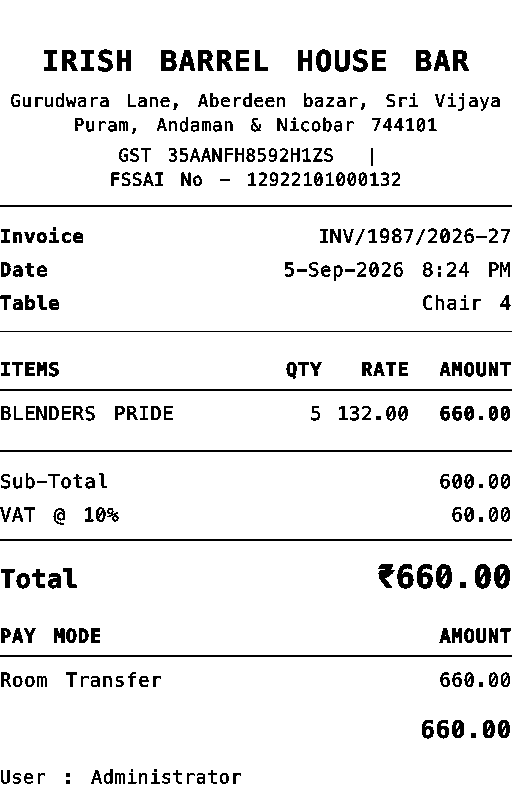
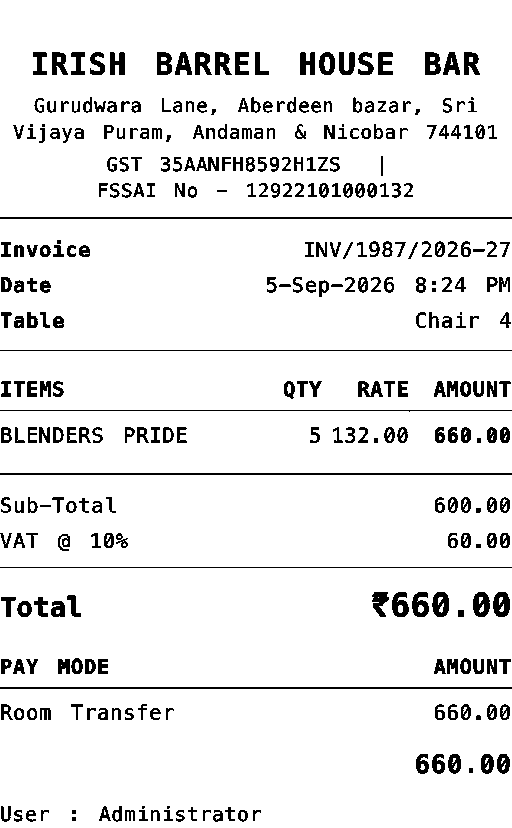
new

diff --git a/.cursor/debug-raster-sim/sim_current.html b/.cursor/debug-raster-sim/sim_current.html
@@ -311,20 +311,20 @@
       escapeHtml(orderNo) +
       '</title><style>' +
       'body{font-family:"Courier New",monospace;padding:16px;color:#111;width:340px;margin:0 auto}' +
-      'h1{font-size:16px;margin:0 0 4px;text-align:center;letter-spacing:.04em}' +
-      '.sub{font-size:11px;text-align:center;color:#555;margin-bottom:10px}' +
-      '.meta{font-size:12px;margin-bottom:10px;border-bottom:1px dashed #333;padding-bottom:8px}' +
+      'h1{font-size:17px;margin:0 0 4px;text-align:center;letter-spacing:.04em}' +
+      '.sub{font-size:12px;text-align:center;color:#555;margin-bottom:10px}' +
+      '.meta{font-size:13px;margin-bottom:10px;border-bottom:1px dashed #333;padding-bottom:8px}' +
       '.meta div{display:flex;justify-content:space-between;margin:2px 0;gap:8px}' +
-      'table.items{width:100%;border-collapse:collapse;font-size:12px}' +
-      'table.items th{text-align:left;font-size:11px;border-bottom:1px solid #333;padding:4px 0}' +
+      'table.items{width:100%;border-collapse:collapse;font-size:13px}' +
+      'table.items th{text-align:left;font-size:12px;border-bottom:1px solid #333;padding:4px 0}' +
       'table.items td{padding:4px 0;border-bottom:1px dashed #ddd;vertical-align:top}' +
       'table.items td.qty,table.items th.qty{width:30px;text-align:center}' +
       'table.items td.rate,table.items th.rate,table.items td.amt,table.items th.amt{width:64px;text-align:right}' +
-      '.variant{font-size:10px;color:#555}' +
-      '.totals{margin-top:10px;font-size:12px}' +
+      '.variant{font-size:11px;color:#555}' +
+      '.totals{margin-top:10px;font-size:13px}' +
       '.totals div{display:flex;justify-content:space-between;margin:2px 0}' +
-      '.totals .grand{font-size:15px;font-weight:700;border-top:1px solid #333;margin-top:6px;padding-top:6px}' +
-      '.foot{margin-top:14px;text-align:center;font-size:11px;color:#555}' +
+      '.totals .grand{font-size:16px;font-weight:700;border-top:1px solid #333;margin-top:6px;padding-top:6px}' +
+      '.foot{margin-top:14px;text-align:center;font-size:12px;color:#555}' +
       '@media print{body{width:auto;margin:0}}' +
       '</style></head><body>' +
       '<h1>Hotel Bell Elite</h1>' +
@@ -498,7 +498,7 @@
     var cancelledCss = isCancelled
       ? 'body.is-cancelled .bill-sheet{position:relative}' +
         '.cancelled-watermark{position:absolute;inset:0;display:flex;align-items:center;justify-content:center;pointer-events:none;z-index:20;overflow:hidden}' +
-        '.cancelled-watermark span{display:inline-block;font-family:"Noto Sans",sans-serif;font-size:46px;font-weight:800;letter-spacing:.14em;line-height:1;color:rgba(185,28,28,.34);border:3px solid rgba(185,28,28,.4);padding:8px 16px;transform:rotate(-34deg);text-transform:uppercase;white-space:nowrap}' +
+        '.cancelled-watermark span{display:inline-block;font-family:"Noto Sans",sans-serif;font-size:47px;font-weight:800;letter-spacing:.14em;line-height:1;color:rgba(185,28,28,.34);border:3px solid rgba(185,28,28,.4);padding:8px 16px;transform:rotate(-34deg);text-transform:uppercase;white-space:nowrap}' +
         '@media print{.cancelled-watermark span{color:rgba(185,28,28,.42);border-color:rgba(185,28,28,.48)}}'
       : '';
     var cancelledMark = isCancelled
@@ -529,38 +529,38 @@
       escapeHtml(orderNo) +
       '</title><style>' +
       receiptNotoSansFaceCss() +
-      'body{font-family:"Noto Sans",sans-serif;padding:14px 12px;color:#111;width:340px;margin:0 auto;font-size:12.5px;font-weight:400;line-height:1.45;-webkit-font-smoothing:antialiased}' +
+      'body{font-family:"Noto Sans",sans-serif;padding:14px 12px;color:#111;width:340px;margin:0 auto;font-size:13.5px;font-weight:400;line-height:1.45;-webkit-font-smoothing:antialiased}' +
       '.logo{display:block;margin:0 auto 10px;max-width:260px;height:auto}' +
-      '.brand{font-size:19px;font-weight:700;text-align:center;letter-spacing:0;margin:0 0 6px;line-height:1.25}' +
-      '.addr,.gst-no{font-size:11.5px;font-weight:400;text-align:center;margin:0 0 4px;line-height:1.4}' +
+      '.brand{font-size:20px;font-weight:700;text-align:center;letter-spacing:0;margin:0 0 6px;line-height:1.25}' +
+      '.addr,.gst-no{font-size:12.5px;font-weight:400;text-align:center;margin:0 0 4px;line-height:1.4}' +
       '.gst-no .fssai{white-space:nowrap}' +
       '.rule{border:0;border-top:1px solid #333;margin:10px 0}' +
-      '.meta{font-size:12.5px;margin:0 0 10px}' +
+      '.meta{font-size:13.5px;margin:0 0 10px}' +
       '.meta div{display:flex;justify-content:space-between;align-items:baseline;margin:4px 0;gap:10px}' +
       '.meta div>span:first-child{font-weight:600;flex:0 0 auto}' +
       '.meta div>span:last-child{font-weight:400;text-align:right}' +
-      'table.items{width:100%;border-collapse:collapse;font-size:12.5px;margin:0 0 10px}' +
-      'table.items th{text-align:left;font-size:12.5px;font-weight:700;padding:5px 0;border-bottom:1px solid #333;text-transform:uppercase;letter-spacing:.02em}' +
+      'table.items{width:100%;border-collapse:collapse;font-size:13.5px;margin:0 0 10px}' +
+      'table.items th{text-align:left;font-size:13.5px;font-weight:700;padding:5px 0;border-bottom:1px solid #333;text-transform:uppercase;letter-spacing:.02em}' +
       'table.items td{padding:5px 0;border-bottom:1px solid #e5e7eb;vertical-align:top;font-weight:500}' +
       'table.items td:first-child{font-weight:500;text-align:left}' +
       'table.items td.qty,table.items th.qty{width:36px;text-align:right}' +
       'table.items td.rate,table.items th.rate{width:58px;text-align:right}' +
       'table.items td.amt,table.items th.amt{width:68px;text-align:right}' +
       'table.items td.qty,table.items td.rate,table.items td.amt{font-weight:500}' +
-      '.variant{font-size:11px;font-weight:400;color:#555}' +
-      '.totals{font-size:12.5px;font-weight:400;margin:0 0 10px}' +
+      '.variant{font-size:12px;font-weight:400;color:#555}' +
+      '.totals{font-size:13.5px;font-weight:400;margin:0 0 10px}' +
       '.totals div{display:flex;justify-content:space-between;align-items:baseline;margin:4px 0;gap:10px}' +
       '.totals .grand{margin-top:8px;padding-top:8px;border-top:1px solid #333;align-items:baseline}' +
-      '.totals .grand>span:first-child{font-size:17px;font-weight:800;letter-spacing:.01em}' +
-      '.totals .grand>span:last-child{font-size:21px;font-weight:800;letter-spacing:.01em;font-variant-numeric:tabular-nums}' +
-      '.section-title{text-align:center;font-weight:700;font-size:13.5px;margin:10px 0 6px;letter-spacing:.02em}' +
+      '.totals .grand>span:first-child{font-size:18px;font-weight:800;letter-spacing:.01em}' +
+      '.totals .grand>span:last-child{font-size:22px;font-weight:800;letter-spacing:.01em;font-variant-numeric:tabular-nums}' +
+      '.section-title{text-align:center;font-weight:700;font-size:14.5px;margin:10px 0 6px;letter-spacing:.02em}' +
       '.receipts{margin-top:6px}' +
-      'table.receipts-table{width:100%;border-collapse:collapse;font-size:12.5px}' +
-      'table.receipts-table th{font-size:12.5px;font-weight:700;text-align:left;padding:5px 0;border-bottom:1px solid #333;text-transform:uppercase;letter-spacing:.02em}' +
+      'table.receipts-table{width:100%;border-collapse:collapse;font-size:13.5px}' +
+      'table.receipts-table th{font-size:13.5px;font-weight:700;text-align:left;padding:5px 0;border-bottom:1px solid #333;text-transform:uppercase;letter-spacing:.02em}' +
       'table.receipts-table td{padding:5px 0;border-bottom:1px solid #e5e7eb;font-weight:500}' +
       'table.receipts-table .pay-amt,table.receipts-table th.pay-amt{text-align:right;width:80px}' +
-      '.receipts-total{text-align:right;font-weight:800;margin-top:6px;font-size:16px}' +
-      '.user{margin-top:12px;font-size:12px;font-weight:400}' +
+      '.receipts-total{text-align:right;font-weight:800;margin-top:6px;font-size:17px}' +
+      '.user{margin-top:12px;font-size:13px;font-weight:400}' +
       cancelledCss +
       '@media print{' +
       'body{width:auto;margin:0;padding:8px 6px}' +
@@ -744,9 +744,9 @@ window.run=async function(){
   if(idoc.fonts&&idoc.fonts.load){
     try{
       await Promise.all([
-        idoc.fonts.load('400 12.5px Consolas').catch(()=>null),
-        idoc.fonts.load('700 12.5px Consolas').catch(()=>null),
-        idoc.fonts.load('800 15px Consolas').catch(()=>null)
+        idoc.fonts.load('400 13.5px Consolas').catch(()=>null),
+        idoc.fonts.load('700 13.5px Consolas').catch(()=>null),
+        idoc.fonts.load('800 16px Consolas').catch(()=>null)
       ]);
     }catch(e){}
   }

diff --git a/static/pos_customer_bill.js b/static/pos_customer_bill.js
@@ -292,20 +292,20 @@
       escapeHtml(orderNo) +
       '</title><style>' +
       'body{font-family:"Courier New",monospace;padding:16px;color:#111;width:340px;margin:0 auto}' +
-      'h1{font-size:16px;margin:0 0 4px;text-align:center;letter-spacing:.04em}' +
-      '.sub{font-size:11px;text-align:center;color:#555;margin-bottom:10px}' +
-      '.meta{font-size:12px;margin-bottom:10px;border-bottom:1px dashed #333;padding-bottom:8px}' +
+      'h1{font-size:17px;margin:0 0 4px;text-align:center;letter-spacing:.04em}' +
+      '.sub{font-size:12px;text-align:center;color:#555;margin-bottom:10px}' +
+      '.meta{font-size:13px;margin-bottom:10px;border-bottom:1px dashed #333;padding-bottom:8px}' +
       '.meta div{display:flex;justify-content:space-between;margin:2px 0;gap:8px}' +
-      'table.items{width:100%;border-collapse:collapse;font-size:12px}' +
-      'table.items th{text-align:left;font-size:11px;border-bottom:1px solid #333;padding:4px 0}' +
+      'table.items{width:100%;border-collapse:collapse;font-size:13px}' +
+      'table.items th{text-align:left;font-size:12px;border-bottom:1px solid #333;padding:4px 0}' +
       'table.items td{padding:4px 0;border-bottom:1px dashed #ddd;vertical-align:top}' +
       'table.items td.qty,table.items th.qty{width:30px;text-align:center}' +
       'table.items td.rate,table.items th.rate,table.items td.amt,table.items th.amt{width:64px;text-align:right}' +
-      '.variant{font-size:10px;color:#555}' +
-      '.totals{margin-top:10px;font-size:12px}' +
+      '.variant{font-size:11px;color:#555}' +
+      '.totals{margin-top:10px;font-size:13px}' +
       '.totals div{display:flex;justify-content:space-between;margin:2px 0}' +
-      '.totals .grand{font-size:15px;font-weight:700;border-top:1px solid #333;margin-top:6px;padding-top:6px}' +
-      '.foot{margin-top:14px;text-align:center;font-size:11px;color:#555}' +
+      '.totals .grand{font-size:16px;font-weight:700;border-top:1px solid #333;margin-top:6px;padding-top:6px}' +
+      '.foot{margin-top:14px;text-align:center;font-size:12px;color:#555}' +
       '@media print{body{width:auto;margin:0}}' +
       '</style></head><body>' +
       '<h1>Hotel Bell Elite</h1>' +
@@ -479,7 +479,7 @@
     var cancelledCss = isCancelled
       ? 'body.is-cancelled .bill-sheet{position:relative}' +
         '.cancelled-watermark{position:absolute;inset:0;display:flex;align-items:center;justify-content:center;pointer-events:none;z-index:20;overflow:hidden}' +
-        '.cancelled-watermark span{display:inline-block;font-family:"Noto Sans",sans-serif;font-size:46px;font-weight:800;letter-spacing:.14em;line-height:1;color:rgba(185,28,28,.34);border:3px solid rgba(185,28,28,.4);padding:8px 16px;transform:rotate(-34deg);text-transform:uppercase;white-space:nowrap}' +
+        '.cancelled-watermark span{display:inline-block;font-family:"Noto Sans",sans-serif;font-size:47px;font-weight:800;letter-spacing:.14em;line-height:1;color:rgba(185,28,28,.34);border:3px solid rgba(185,28,28,.4);padding:8px 16px;transform:rotate(-34deg);text-transform:uppercase;white-space:nowrap}' +
         '@media print{.cancelled-watermark span{color:rgba(185,28,28,.42);border-color:rgba(185,28,28,.48)}}'
       : '';
     var cancelledMark = isCancelled
@@ -510,38 +510,38 @@
       escapeHtml(orderNo) +
       '</title><style>' +
       receiptNotoSansFaceCss() +
-      'body{font-family:"Noto Sans",sans-serif;padding:14px 12px;color:#111;width:340px;margin:0 auto;font-size:12.5px;font-weight:400;line-height:1.45;-webkit-font-smoothing:antialiased}' +
+      'body{font-family:"Noto Sans",sans-serif;padding:14px 12px;color:#111;width:340px;margin:0 auto;font-size:13.5px;font-weight:400;line-height:1.45;-webkit-font-smoothing:antialiased}' +
       '.logo{display:block;margin:0 auto 10px;max-width:260px;height:auto}' +
-      '.brand{font-size:19px;font-weight:700;text-align:center;letter-spacing:0;margin:0 0 6px;line-height:1.25}' +
-      '.addr,.gst-no{font-size:11.5px;font-weight:400;text-align:center;margin:0 0 4px;line-height:1.4}' +
+      '.brand{font-size:20px;font-weight:700;text-align:center;letter-spacing:0;margin:0 0 6px;line-height:1.25}' +
+      '.addr,.gst-no{font-size:12.5px;font-weight:400;text-align:center;margin:0 0 4px;line-height:1.4}' +
       '.gst-no .fssai{white-space:nowrap}' +
       '.rule{border:0;border-top:1px solid #333;margin:10px 0}' +
-      '.meta{font-size:12.5px;margin:0 0 10px}' +
+      '.meta{font-size:13.5px;margin:0 0 10px}' +
       '.meta div{display:flex;justify-content:space-between;align-items:baseline;margin:4px 0;gap:10px}' +
       '.meta div>span:first-child{font-weight:600;flex:0 0 auto}' +
       '.meta div>span:last-child{font-weight:400;text-align:right}' +
-      'table.items{width:100%;border-collapse:collapse;font-size:12.5px;margin:0 0 10px}' +
-      'table.items th{text-align:left;font-size:12.5px;font-weight:700;padding:5px 0;border-bottom:1px solid #333;text-transform:uppercase;letter-spacing:.02em}' +
+      'table.items{width:100%;border-collapse:collapse;font-size:13.5px;margin:0 0 10px}' +
+      'table.items th{text-align:left;font-size:13.5px;font-weight:700;padding:5px 0;border-bottom:1px solid #333;text-transform:uppercase;letter-spacing:.02em}' +
       'table.items td{padding:5px 0;border-bottom:1px solid #e5e7eb;vertical-align:top;font-weight:500}' +
       'table.items td:first-child{font-weight:500;text-align:left}' +
       'table.items td.qty,table.items th.qty{width:36px;text-align:right}' +
       'table.items td.rate,table.items th.rate{width:58px;text-align:right}' +
       'table.items td.amt,table.items th.amt{width:68px;text-align:right}' +
       'table.items td.qty,table.items td.rate,table.items td.amt{font-weight:500}' +
-      '.variant{font-size:11px;font-weight:400;color:#555}' +
-      '.totals{font-size:12.5px;font-weight:400;margin:0 0 10px}' +
+      '.variant{font-size:12px;font-weight:400;color:#555}' +
+      '.totals{font-size:13.5px;font-weight:400;margin:0 0 10px}' +
       '.totals div{display:flex;justify-content:space-between;align-items:baseline;margin:4px 0;gap:10px}' +
       '.totals .grand{margin-top:8px;padding-top:8px;border-top:1px solid #333;align-items:baseline}' +
-      '.totals .grand>span:first-child{font-size:17px;font-weight:800;letter-spacing:.01em}' +
-      '.totals .grand>span:last-child{font-size:21px;font-weight:800;letter-spacing:.01em;font-variant-numeric:tabular-nums}' +
-      '.section-title{text-align:center;font-weight:700;font-size:13.5px;margin:10px 0 6px;letter-spacing:.02em}' +
+      '.totals .grand>span:first-child{font-size:18px;font-weight:800;letter-spacing:.01em}' +
+      '.totals .grand>span:last-child{font-size:22px;font-weight:800;letter-spacing:.01em;font-variant-numeric:tabular-nums}' +
+      '.section-title{text-align:center;font-weight:700;font-size:14.5px;margin:10px 0 6px;letter-spacing:.02em}' +
       '.receipts{margin-top:6px}' +
-      'table.receipts-table{width:100%;border-collapse:collapse;font-size:12.5px}' +
-      'table.receipts-table th{font-size:12.5px;font-weight:700;text-align:left;padding:5px 0;border-bottom:1px solid #333;text-transform:uppercase;letter-spacing:.02em}' +
+      'table.receipts-table{width:100%;border-collapse:collapse;font-size:13.5px}' +
+      'table.receipts-table th{font-size:13.5px;font-weight:700;text-align:left;padding:5px 0;border-bottom:1px solid #333;text-transform:uppercase;letter-spacing:.02em}' +
       'table.receipts-table td{padding:5px 0;border-bottom:1px solid #e5e7eb;font-weight:500}' +
       'table.receipts-table .pay-amt,table.receipts-table th.pay-amt{text-align:right;width:80px}' +
-      '.receipts-total{text-align:right;font-weight:800;margin-top:6px;font-size:16px}' +
-      '.user{margin-top:12px;font-size:12px;font-weight:400}' +
+      '.receipts-total{text-align:right;font-weight:800;margin-top:6px;font-size:17px}' +
+      '.user{margin-top:12px;font-size:13px;font-weight:400}' +
       cancelledCss +
       '@media print{' +
       'body{width:auto;margin:0;padding:8px 6px}' +

diff --git a/static/pos_printers.js b/static/pos_printers.js
@@ -923,13 +923,13 @@
       if (doc && doc.fonts && typeof doc.fonts.load === 'function') {
         fontsReady = Promise.all([
           fontsReady,
-          doc.fonts.load('400 12.5px Consolas').catch(function () {
+          doc.fonts.load('400 13.5px Consolas').catch(function () {
             return null;
           }),
-          doc.fonts.load('700 12.5px Consolas').catch(function () {
+          doc.fonts.load('700 13.5px Consolas').catch(function () {
             return null;
           }),
-          doc.fonts.load('800 12.5px Consolas').catch(function () {
+          doc.fonts.load('800 13.5px Consolas').catch(function () {
             return null;
           })
         ]).catch(function () {
@@ -1033,13 +1033,13 @@
       var fontsWait = Promise.resolve();
       if (doc && doc.fonts && typeof doc.fonts.load === 'function') {
         fontsWait = Promise.all([
-          doc.fonts.load('400 12.5px Consolas').catch(function () {
+          doc.fonts.load('400 13.5px Consolas').catch(function () {
             return null;
           }),
-          doc.fonts.load('700 12.5px Consolas').catch(function () {
+          doc.fonts.load('700 13.5px Consolas').catch(function () {
             return null;
           }),
-          doc.fonts.load('800 15px Consolas').catch(function () {
+          doc.fonts.load('800 16px Consolas').catch(function () {
             return null;
           })
         ]).catch(function () {

diff --git a/tests/test_pos_bill_raster_print.py b/tests/test_pos_bill_raster_print.py
@@ -81,9 +81,9 @@ class PosBillRasterPrintWiringTests(unittest.TestCase):
         self.assertIn("CAPTURE_SUPERSAMPLE = 4", src)
         # Thermal capture tries Consolas per Rajesh; ink stroke preserves thin tip.
         self.assertIn("font-family:Consolas,monospace", src)
-        self.assertIn("doc.fonts.load('400 12.5px Consolas')", src)
-        self.assertIn("doc.fonts.load('700 12.5px Consolas')", src)
-        self.assertIn("doc.fonts.load('800 15px Consolas')", src)
+        self.assertIn("doc.fonts.load('400 13.5px Consolas')", src)
+        self.assertIn("doc.fonts.load('700 13.5px Consolas')", src)
+        self.assertIn("doc.fonts.load('800 16px Consolas')", src)
         self.assertIn("-webkit-text-stroke:0.35px #000", src)
         self.assertIn("paint-order:stroke fill", src)
         self.assertIn("text-shadow:0 0 0.25px #000", src)
